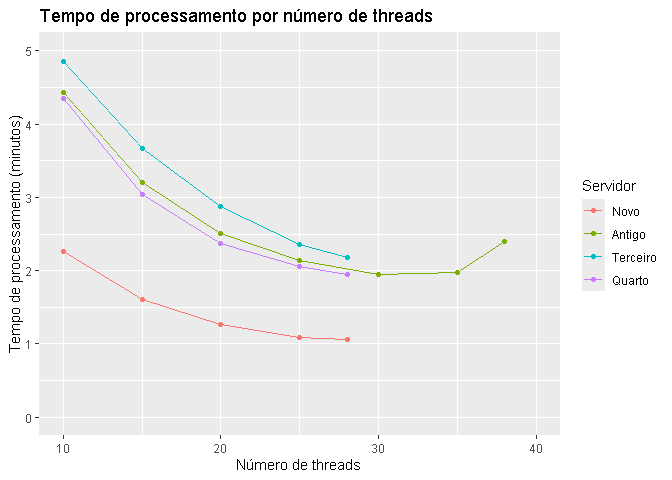
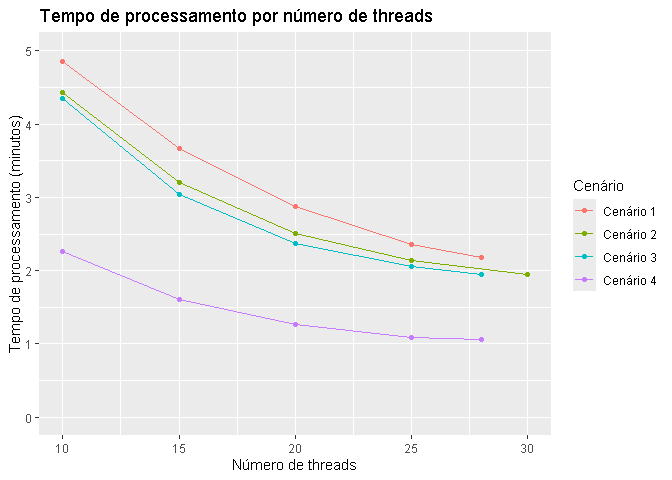
melhorando descrição da análise

diff --git a/README.md b/README.md
@@ -1,7 +1,31 @@
 
 # Geocode benchmark
 
-Analisando o efeito do número de threads e observações no tempo de
-processamento.
+Teste feito para analisar o efeito do número de threads sobre o tempo de
+processamento da geolocalização usando o `{geocodepro}`. Foram
+geolocalizados 100.000 endereços aleatórios retirados do CNES. Cinco
+testes foram feitos com cada opção de número de threads (i.e. cinco com
+10 threads, cinco com 15, etc), e o tempo reportado nas figuras a seguir
+é a média dessas cinco observações. Quatro cenários foram analisados:
 
-<img src="figures/README-unnamed-chunk-2-1.png" width="100%" /><img src="figures/README-unnamed-chunk-2-2.png" width="100%" />
+- Cenário 1: Hardware Dell 940 comprado em 2017. Repositório estava
+  salvo na rede. Havia a opção de rodar com até 60 cores, mas causava
+  hyperthreading. Número de threads limitado em 28.
+- Cenário 2: Hardware Dell 940 comprado em 2017. Repositório salvo em
+  pasta local. Configuração do servidor foi mudada, havia a opção de
+  rodar com até 40 cores. Número de threads limitado em 30.
+- Cenário 3: Hardware Dell 940 comprado em 2017. Repositório estava
+  salvo na rede. Configuração do servidor foi novamente mudada, havia a
+  opção de rodar com até 30 cores. Número de threads limitado em 28.
+- Cenário 4: Hardware HCI Lenovo VX630V3, modelo 2023. Repositório salvo
+  em pasta local. Número de threads limitado em 28.
+
+<img src="figures/README-unnamed-chunk-2-1.png" width="100%" />
+
+No gráfico abaixo, o speed-up esperado foi calculado como a razão entre
+o número de threads dividido por 10 (que é o menor número de threads que
+foi analisado no teste). O speed-up realizado foi calculado como o tempo
+de processamento usando 10 threads dividido pelo tempo de processamento
+usando os demais números de threads analisados.
+
+<img src="figures/README-unnamed-chunk-3-1.png" width="100%" />
